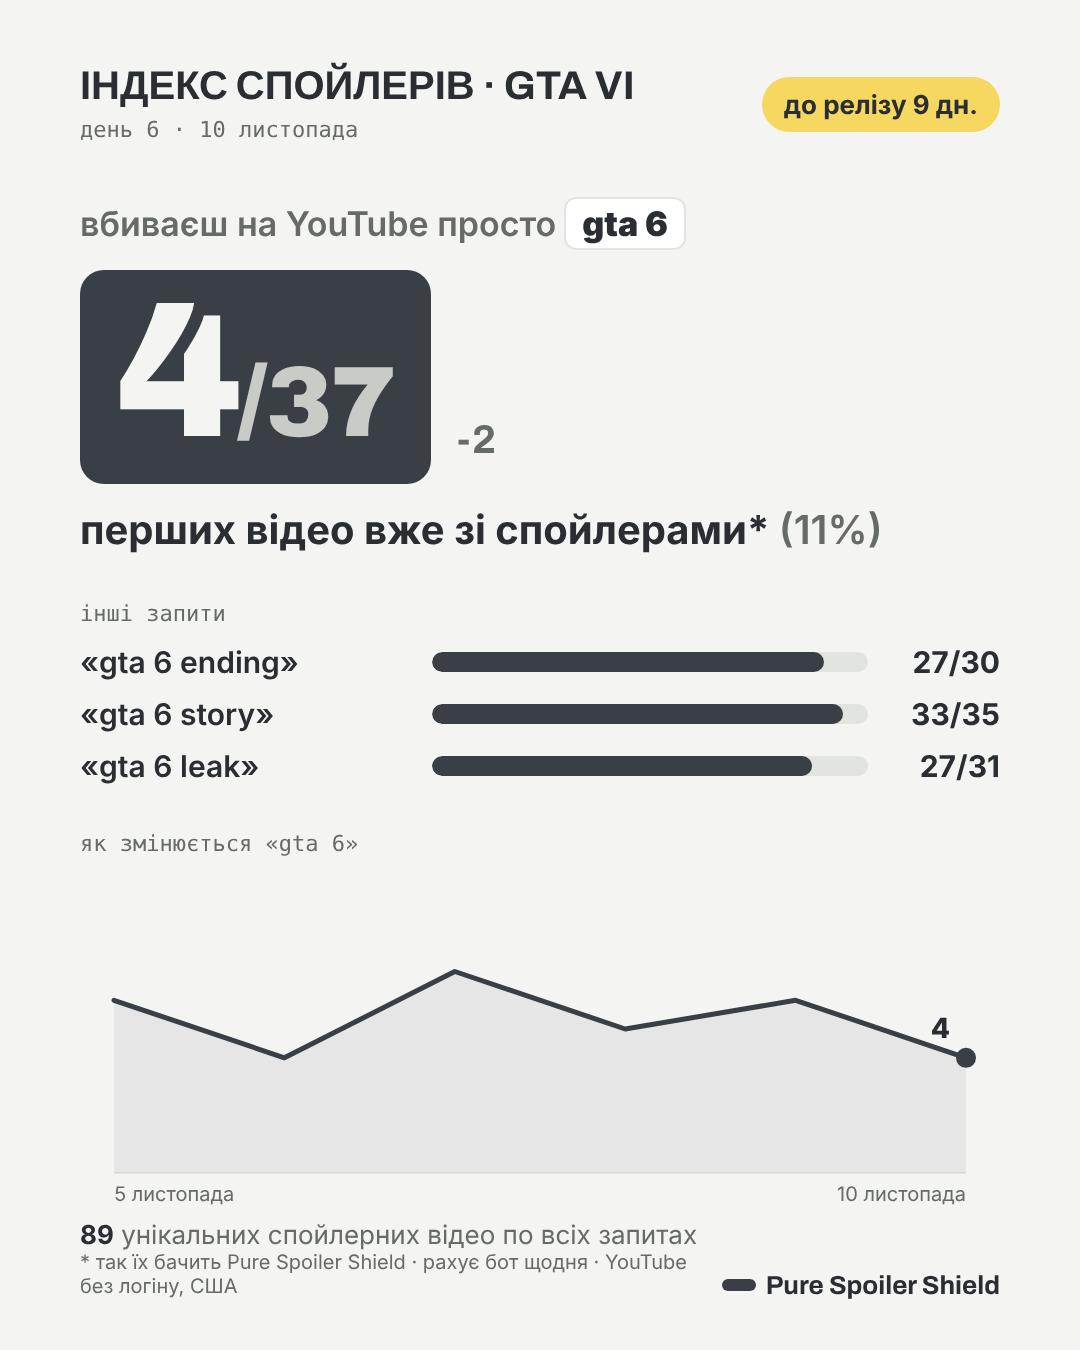
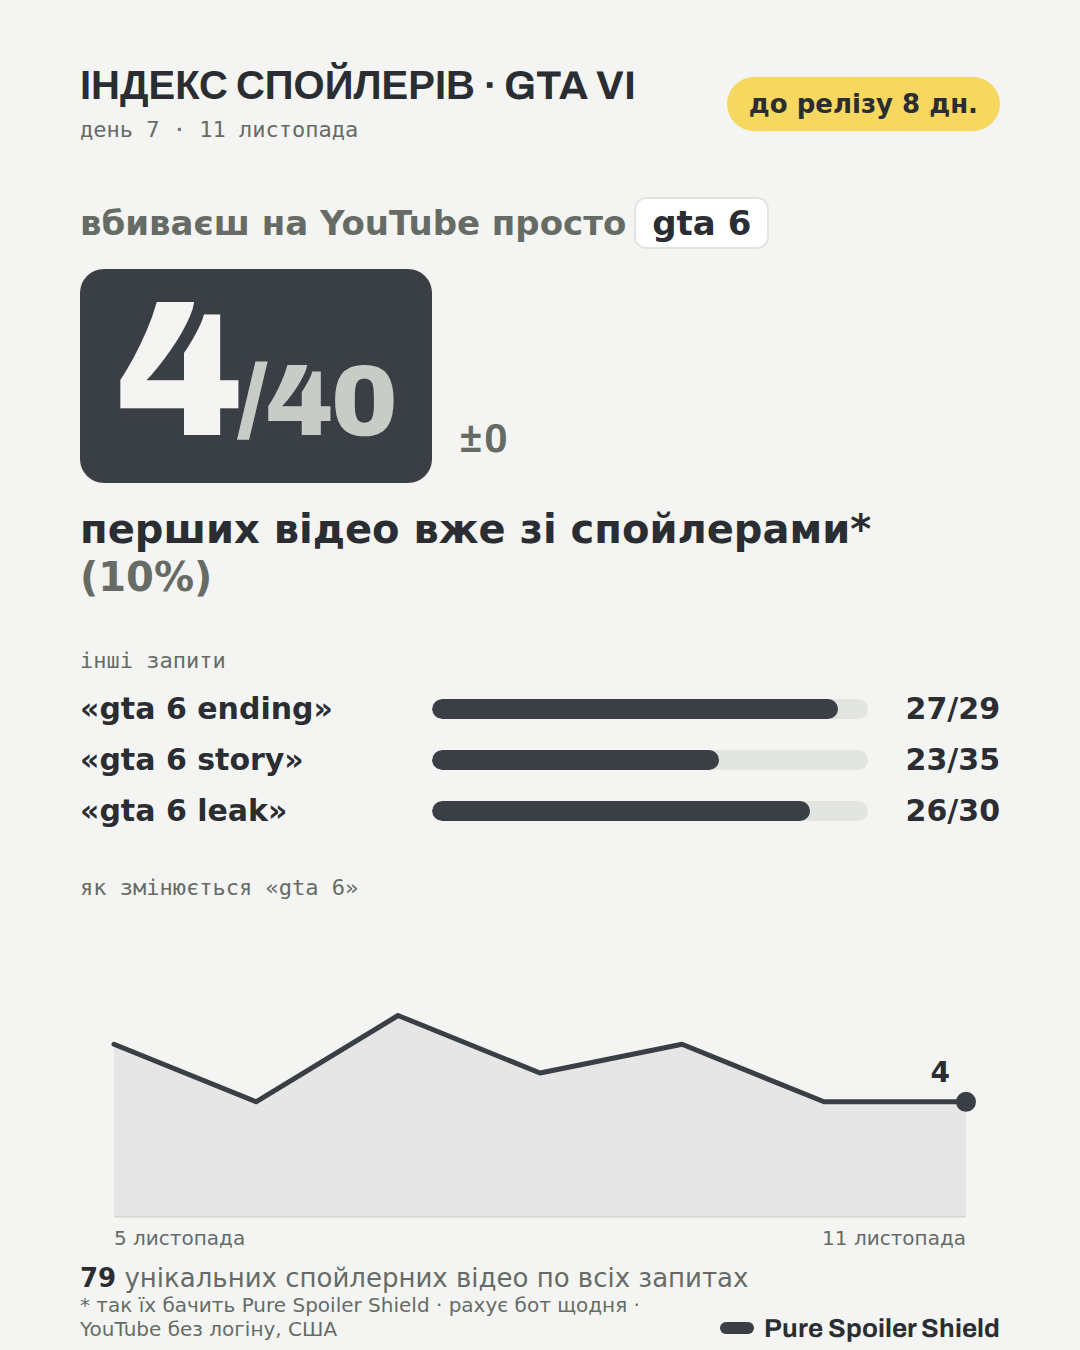
spoiler index: 2026-11-11

diff --git a/spoiler-index/index.html b/spoiler-index/index.html
@@ -4,24 +4,25 @@
 <meta charset="utf-8">
 <meta name="viewport" content="width=device-width, initial-scale=1">
 <title>GTA 6 Spoiler Index: how many YouTube results carry spoilers, counted daily</title>
-<meta name="description" content="Today 4 of the top 37 YouTube results for &quot;gta 6&quot; carry spoilers. Counted every day by a bot with no login, from 2026-11-05.">
+<meta name="description" content="Today 4 of the top 40 YouTube results for &quot;gta 6&quot; carry spoilers. Counted every day by a bot with no login, from 2026-11-05.">
 <link rel="canonical" href="https://qwemort.github.io/pure-guides/spoiler-index/">
 <link rel="stylesheet" href="../style.css">
 <meta property="og:title" content="GTA 6 Spoiler Index: how many YouTube results carry spoilers, counted daily">
-<meta property="og:description" content="Today 4 of the top 37 YouTube results for &quot;gta 6&quot; carry spoilers. Counted every day by a bot with no login, from 2026-11-05.">
+<meta property="og:description" content="Today 4 of the top 40 YouTube results for &quot;gta 6&quot; carry spoilers. Counted every day by a bot with no login, from 2026-11-05.">
 <meta property="og:image" content="https://qwemort.github.io/pure-guides/spoiler-index/latest-en.png">
 <meta name="twitter:card" content="summary_large_image">
-<script type="application/ld+json">{"@context":"https://schema.org","@type":"Dataset","name":"GTA 6 Spoiler Index","description":"Today 4 of the top 37 YouTube results for \"gta 6\" carry spoilers. Counted every day by a bot with no login, from 2026-11-05.","url":"https://qwemort.github.io/pure-guides/spoiler-index/","temporalCoverage":"2026-11-05/2026-11-10","isAccessibleForFree":true,"license":"https://creativecommons.org/licenses/by/4.0/","creator":{"@type":"Organization","name":"Pure guides"},"distribution":{"@type":"DataDownload","encodingFormat":"application/json","contentUrl":"https://qwemort.github.io/pure-guides/data/spoiler-index.json"}}</script>
+<script type="application/ld+json">{"@context":"https://schema.org","@type":"Dataset","name":"GTA 6 Spoiler Index","description":"Today 4 of the top 40 YouTube results for \"gta 6\" carry spoilers. Counted every day by a bot with no login, from 2026-11-05.","url":"https://qwemort.github.io/pure-guides/spoiler-index/","temporalCoverage":"2026-11-05/2026-11-11","isAccessibleForFree":true,"license":"https://creativecommons.org/licenses/by/4.0/","creator":{"@type":"Organization","name":"Pure guides"},"distribution":{"@type":"DataDownload","encodingFormat":"application/json","contentUrl":"https://qwemort.github.io/pure-guides/data/spoiler-index.json"}}</script>
 </head>
 <body>
 <main>
 <a class="brand" href="../">← Pure guides</a>
 <h1>GTA 6 Spoiler Index</h1>
-<p class="muted">Updated 2026-11-10 · day 6 · 9 days to release</p>
-<div class="note tldr"><strong>Today:</strong> search YouTube for just "gta 6" and <strong>4 of the top 37</strong> videos already carry spoilers. Across all four searches below there are <strong>89</strong> unique spoiler videos.</div>
-<figure><img src="latest-en.png" alt="GTA 6 spoiler index card for 2026-11-10" width="1080" height="1350"></figure>
+<p class="muted">Updated 2026-11-11 · day 7 · 8 days to release</p>
+<div class="note tldr"><strong>Today:</strong> search YouTube for just "gta 6" and <strong>4 of the top 40</strong> videos already carry spoilers. Across all four searches below there are <strong>79</strong> unique spoiler videos.</div>
+<figure><img src="latest-en.png" alt="GTA 6 spoiler index card for 2026-11-11" width="1080" height="1350"></figure>
 <h2>Every day</h2>
 <table><tr><th>Date</th><th>"gta 6"</th><th>"gta 6 ending"</th><th>"gta 6 story"</th><th>"gta 6 leak"</th><th>Unique spoiler videos</th></tr>
+<tr><td>2026-11-11</td><td><strong>4</strong> / 40</td><td>27 / 29</td><td>23 / 35</td><td>26 / 30</td><td>79</td></tr>
 <tr><td>2026-11-10</td><td><strong>4</strong> / 37</td><td>27 / 30</td><td>33 / 35</td><td>27 / 31</td><td>89</td></tr>
 <tr><td>2026-11-09</td><td><strong>6</strong> / 40</td><td>27 / 28</td><td>27 / 35</td><td>26 / 30</td><td>84</td></tr>
 <tr><td>2026-11-08</td><td><strong>5</strong> / 37</td><td>31 / 33</td><td>30 / 35</td><td>29 / 32</td><td>92</td></tr>
@@ -32,7 +33,7 @@
 <p>Raw numbers: <a href="../data/spoiler-index.json">spoiler-index.json</a> (free to reuse with a link back).</p>
 <h2>How it is counted</h2>
 <ul>
-<li>Once a day a bot opens youtube.com in a clean browser with <strong>no account and no history</strong> (US, English), runs the same four searches and takes the first 37 videos of each, Shorts included, ads excluded.</li>
+<li>Once a day a bot opens youtube.com in a clean browser with <strong>no account and no history</strong> (US, English), runs the same four searches and takes the first 40 videos of each, Shorts included, ads excluded.</li>
 <li>A video counts as a spoiler when <a href="https://chromewebstore.google.com/detail/aloilpojkoblacapdlknacjiljgjibng?utm_source=pureguides&amp;utm_medium=spoiler-index">Pure Spoiler Shield</a> with its default GTA VI list on the "spoilers only" level would blur it: GTA VI plus words like ending, leak, story, twist or a character name. Plain trailers and news do not count.</li>
 <li>It reads titles and text, not images, so it can miss a spoiler that is only in a thumbnail. The same searches run every day, so the trend is comparable even where single videos are judged wrong.</li>
 <li>Video titles are not published here, because they are the spoilers.</li>
